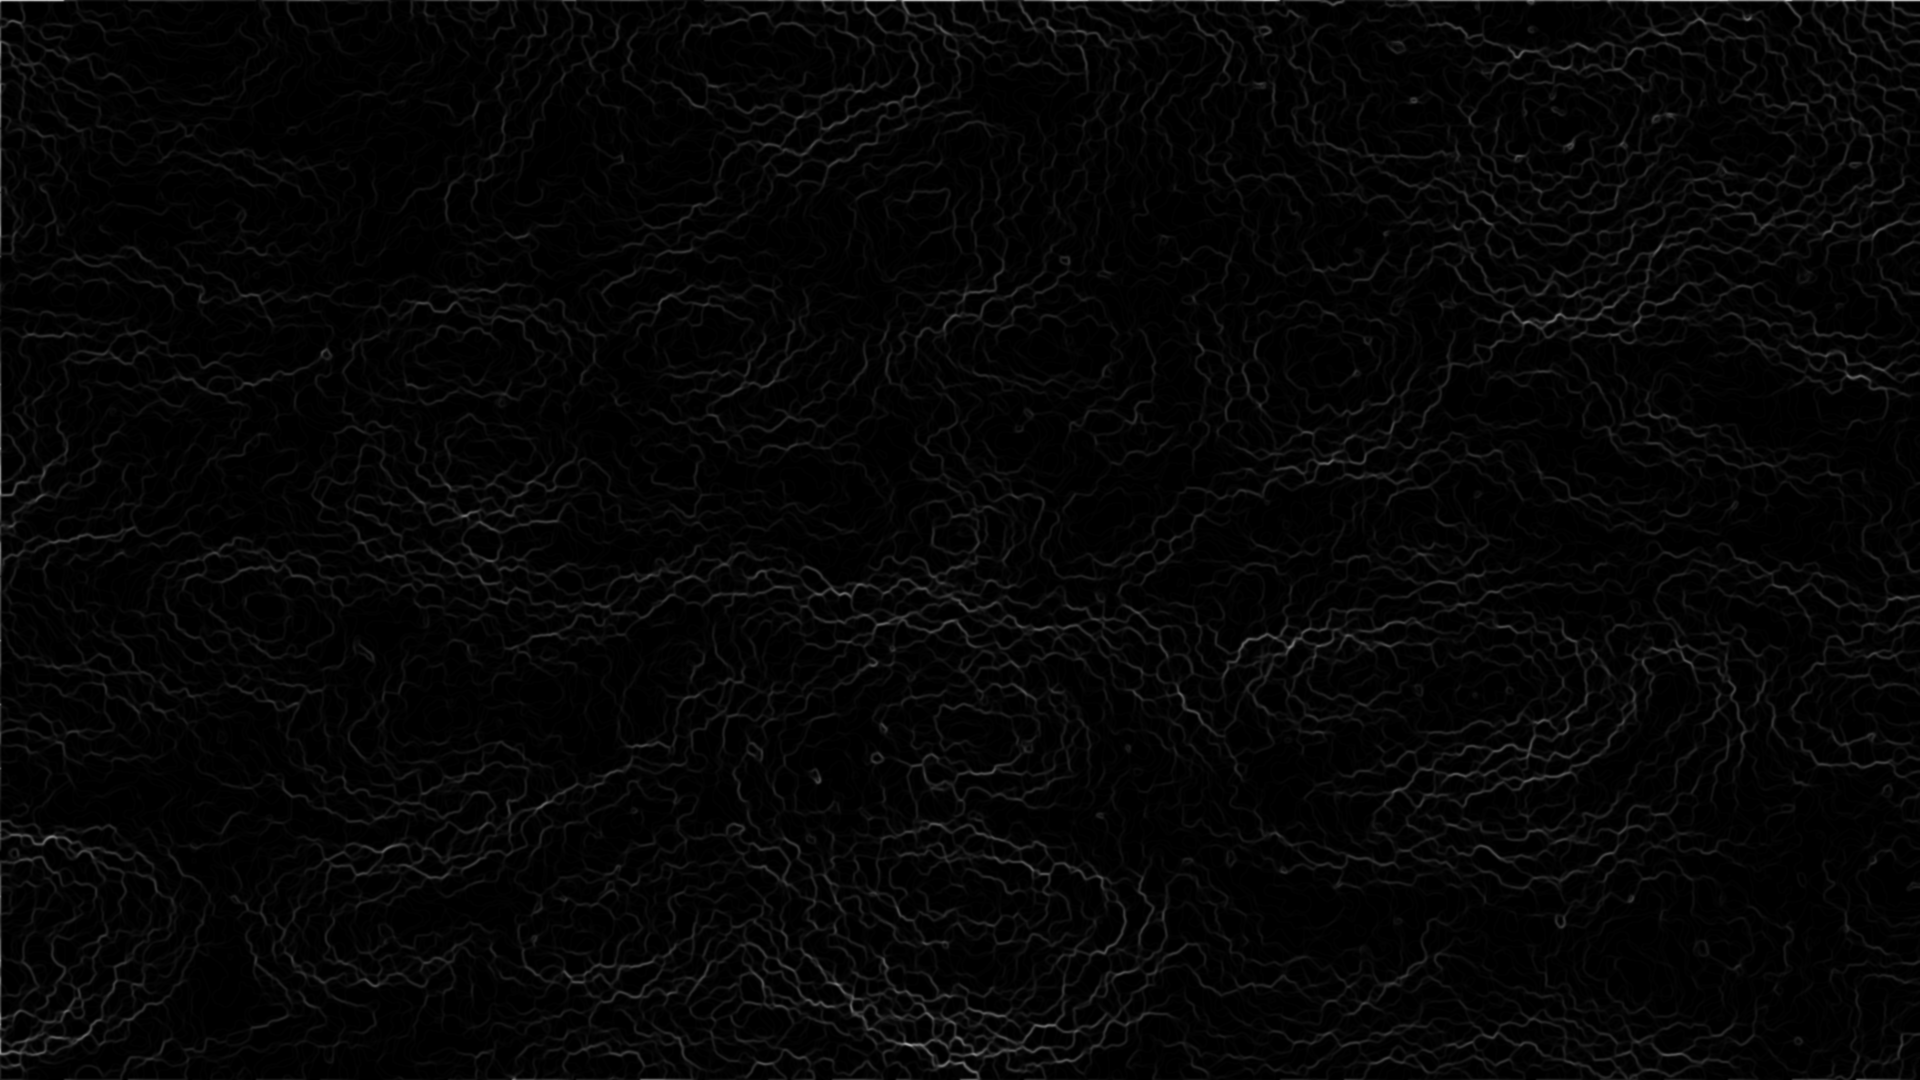
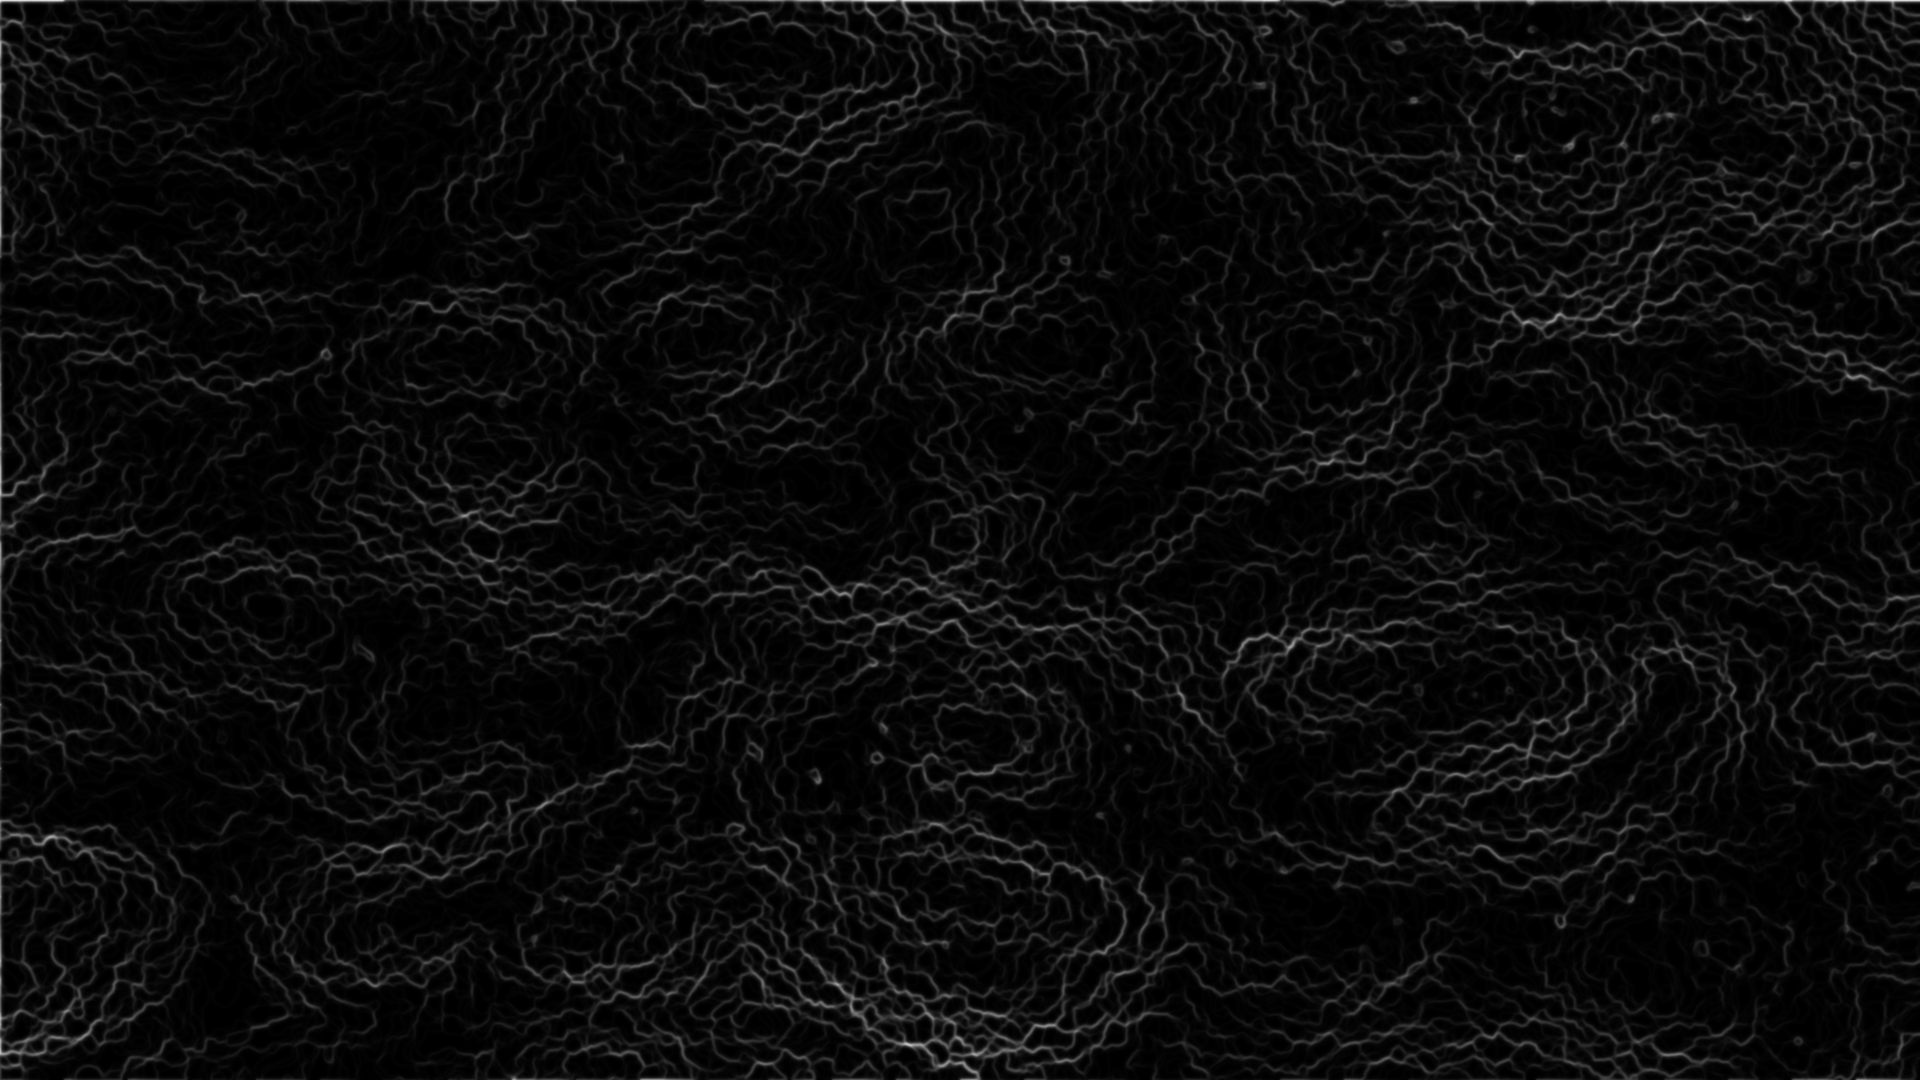
minor stuff

diff --git a/core/src/de/dakror/burst/game/Game.java b/core/src/de/dakror/burst/game/Game.java
@@ -94,9 +94,9 @@ public class Game extends Layer
 		stage.getBatch().setShader(plasma);
 		plasma.setUniformf("u_time", runTime += delta);
 		plasma.setUniformf("u_resolution", resCache.set(Gdx.graphics.getWidth(), Gdx.graphics.getHeight()));
-		plasma.setUniformf("u_speed", 0.5f);
+		plasma.setUniformf("u_speed", 1);
 		
-		stage.getBatch().draw(Burst.assets.get("img/background.png", Texture.class), 0, 0, Gdx.graphics.getWidth(), Gdx.graphics.getHeight());
+		stage.getBatch().draw(Burst.assets.get("img/background.png", Texture.class), -1, -1, Gdx.graphics.getWidth(), Gdx.graphics.getHeight());
 		
 		stage.getBatch().end();
 		
